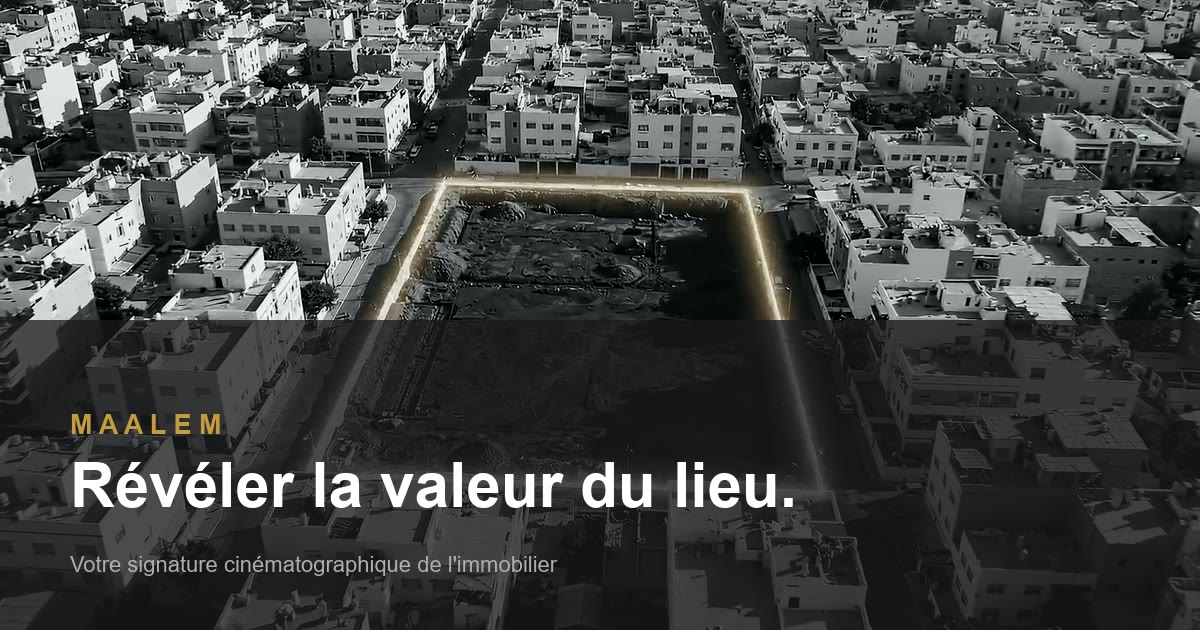
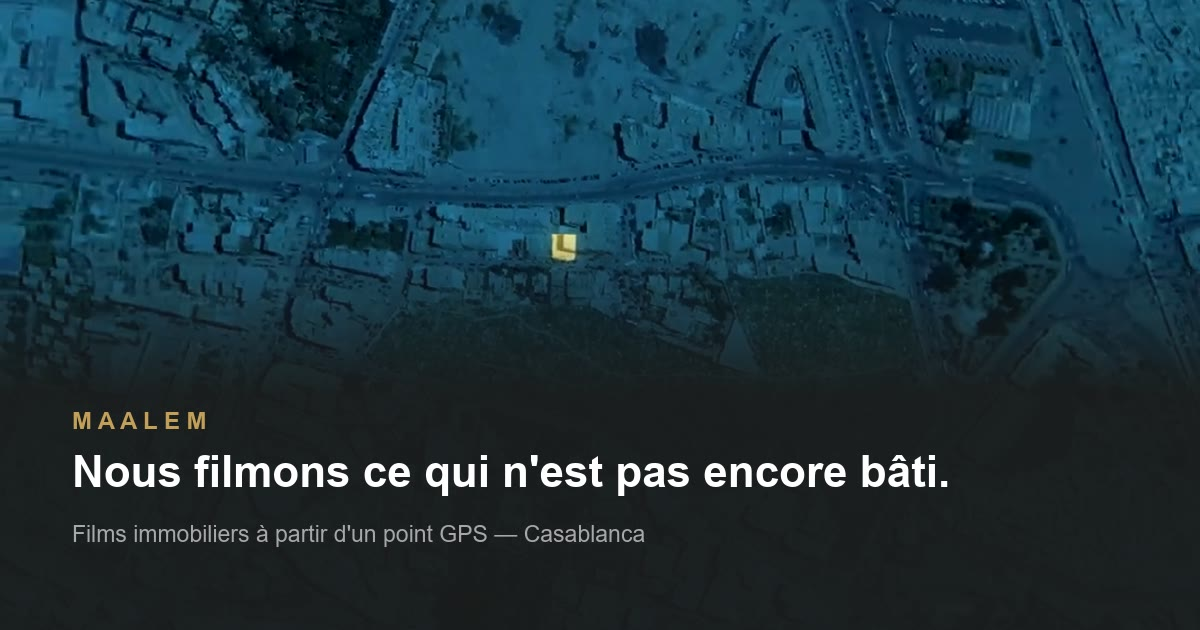
Add 404 page, robots, sitemap, llms.txt and structured data; clear the console 404s and refresh the share image

diff --git a/404.html b/404.html
@@ -1,0 +1,67 @@
+<!doctype html>
+<html lang="fr">
+<head>
+<meta charset="utf-8">
+<meta name="viewport" content="width=device-width,initial-scale=1">
+<title>Page introuvable — MAALEM</title>
+<meta name="robots" content="noindex">
+<meta name="theme-color" content="#1C1C1E">
+<link rel="icon" type="image/svg+xml" href="/medias/favicon.svg">
+<link rel="preconnect" href="https://fonts.gstatic.com" crossorigin>
+<link rel="stylesheet" href="https://fonts.googleapis.com/css2?family=Alexandria:wght@300;400&display=swap">
+<style>
+  /* Mêmes valeurs que la page d'accueil : une 404 qui ne ressemble pas au site
+     donne l'impression d'avoir quitté le domaine. */
+  :root{ --ink:#1C1C1E; --gold:#c49f58; --w-60:rgba(255,255,255,.60); }
+  *{box-sizing:border-box}
+  body{
+    margin:0;min-height:100svh;
+    display:flex;flex-direction:column;align-items:center;justify-content:center;
+    gap:26px;padding:32px;text-align:center;
+    background:var(--ink);color:#fff;
+    font-family:'Alexandria',system-ui,-apple-system,'Segoe UI',sans-serif;
+    font-weight:300;
+  }
+  .mk{width:min(210px,62vw);height:auto;fill:var(--gold);display:block}
+  h1{margin:0;font-size:clamp(1.5rem,5vw,2.2rem);font-weight:400;letter-spacing:-.01em}
+  p{margin:0;max-width:44ch;line-height:1.6;color:var(--w-60);font-size:.94rem}
+  .code{
+    font-family:ui-monospace,'IBM Plex Mono',monospace;
+    font-size:.7rem;letter-spacing:.24em;color:var(--gold);
+  }
+  .liens{display:flex;flex-wrap:wrap;gap:12px;justify-content:center;margin-top:6px}
+  a.b{
+    display:inline-flex;align-items:center;gap:9px;
+    padding:14px 24px;border-radius:1000px;text-decoration:none;
+    font-size:.72rem;font-weight:700;letter-spacing:.1em;text-transform:uppercase;
+    border:1px solid rgba(255,255,255,.32);color:#fff;
+    transition:border-color .3s,background .3s;
+  }
+  a.b:hover{border-color:var(--gold);background:rgba(196,159,88,.12)}
+  a.wa{background:#25D366;border-color:#25D366;color:#0B141A}
+  a.wa:hover{background:#1EBE5A;border-color:#1EBE5A}
+</style>
+</head>
+<body>
+  <a href="/" aria-label="MAALEM — accueil">
+    <svg class="mk" viewBox="0 0 242.13 83.03" aria-hidden="true">
+      <path d="m101.57,0v48.04c3.83,0,7.43,0,11.04,0,28.26.02,56.51.05,84.77.05.9,0,2.06,0,2.65-.52,2.03-1.79,3.85-3.81,6.18-6.18h-10.23c3.6-3.63,6.83-6.94,10.13-10.17.44-.43,1.25-.65,1.89-.66,5.02-.05,10.05-.05,15.07.01.61,0,1.51.28,1.79.72,2.02,3.24,3.91,6.55,6.09,10.25h-20.14c1.67,1.87,3.09,3.33,4.34,4.91,1.01,1.28,2.14,1.79,3.8,1.76,6.91-.09,13.81-.04,20.72-.05.73,0,1.45-.09,2.48-.16-4.6-8-8.98-15.69-13.48-23.31-.35-.58-1.56-.91-2.37-.92-6.28-.07-12.56-.02-18.84-.02-2.31,0-4.2.77-5.87,2.47-4.61,4.72-9.3,9.35-14.05,13.92-.7.67-1.86,1.2-2.82,1.21-6.51.1-13.03.07-19.54.03-.67,0-1.56-.04-1.97-.45-3.1-3.07-6.1-6.23-9.13-9.37l.21-.91c8.75-.39,17.54.05,26.32-.28v-6.64c-7.47,0-14.75-.48-22.03-.12-6.71.33-10.06,3.7-15.29,7.35,3.92,3.35,7.5,6.41,11.08,9.46-.23.24-.46.49-.69.73h-45.69c0-1.01,0-1.78,0-2.55,0-10.05,0-22.01-.02-32.06"/>
+      <path d="m79.94,7.2c.1,9.65.05,21.27.05,30.92,0,.9-.07,1.8-.11,2.64h-24.91v-16.87c-5.4,0-10.57-.13-15.72.08-1.44.06-3.07.85-4.23,1.79C23.8,34.86,12.68,44.05,1.54,53.23c-.3.25-.52.6-1.08,1.24,2.64,0,4.84-.1,7.02.03,2,.12,3.54-.48,5.1-1.78,8.45-7.01,16.99-13.91,25.52-20.83.65-.53,1.42-1.22,2.16-1.26,2.63-.15,5.28-.06,8-.06v10.67c-6.69-1.84-11.32,1.21-15.3,6.24h53.45V0"/>
+      <path d="m174.68,75.97h23.43v-2.56h-23.35v-3.89h23.37v-2.6h-26.39v15.87h26.51c-.05-.94-.09-1.69-.15-2.68h-23.41v-4.14Z"/>
+      <path d="m241.76,66.19c-1.46.82-2.64,1.16-3.36,1.94-3.42,3.66-6.71,7.44-10.2,11.34-3.52-3.94-6.82-7.72-10.23-11.38-.71-.76-1.86-1.1-3.21-1.85v16.55h2.82v-10.84c3.15,3.51,5.98,6.54,8.66,9.7,1.46,1.72,2.52,1.62,3.93-.03,2.68-3.13,5.5-6.13,8.7-9.68v10.86h2.89v-16.61Z"/>
+      <path d="m2.87,82.85v-10.8c3.05,3.41,5.76,6.45,8.49,9.47,1.84,2.03,2.24,2.01,4.04.01,2.75-3.04,5.5-6.08,8.25-9.12.17.07.35.14.52.2v10.21h2.64v-16.8c-1.5,1.01-2.59,1.49-3.33,2.29-3.39,3.63-6.68,7.35-10.13,11.18-3.49-3.97-6.69-7.73-10.04-11.34-.73-.79-1.99-1.08-3.31-1.76v16.47h2.87Z"/>
+      <path d="m114.03,82.71c-4.05-5.16-7.93-10.17-11.87-15.12-1.11-1.39-2.92-1.21-4.16.32-2.17,2.68-4.3,5.39-6.44,8.11-1.72,2.19-3.43,4.4-5.21,6.68,2.37.71,3.77,0,5.06-1.75,2.77-3.75,5.76-7.33,8.78-11.13,2.99,3.81,5.85,7.33,8.57,10.96,1.3,1.74,2.73,2.74,5.27,1.93Z"/>
+      <path d="m70.4,82.75c-.51-.71-.93-1.34-1.4-1.92-3.38-4.22-6.77-8.43-10.16-12.64-1.68-2.09-3.17-2.09-4.87.05-3.51,4.41-7.01,8.84-10.5,13.27-.3.38-.48.85-.71,1.27,2.42.74,3.81-.31,5.11-2.04,2.75-3.67,5.65-7.22,8.61-10.97,3.14,3.96,6.17,7.55,8.94,11.34,1.33,1.82,2.79,2.21,4.98,1.64Z"/>
+      <path d="m131.38,82.78h23.79c-.05-.95-.09-1.7-.15-2.72h-20.93v-13.27c-1.05.06-1.86.1-2.71.14v15.85Z"/>
+    </svg>
+  </a>
+  <p class="code">ERREUR 404</p>
+  <h1>Cette page n'existe pas.</h1>
+  <p>Le site MAALEM tient en une seule page. Le lien que vous avez suivi est
+     probablement incomplet ou périmé.</p>
+  <div class="liens">
+    <a class="b" href="/">Retour à l'accueil</a>
+    <a class="b wa" href="https://wa.me/212691865970" target="_blank" rel="noopener">WhatsApp</a>
+  </div>
+</body>
+</html>

diff --git a/index.html b/index.html
@@ -44,6 +44,58 @@
      Remplacez l'URL absolue par votre domaine avant la mise en ligne —
      WhatsApp, Facebook et LinkedIn refusent les chemins relatifs. -->
 <link rel="canonical" href="https://maalem.online/">
+
+<!-- Données structurées. Chaque valeur est déjà visible sur la page : Google
+     pénalise le balisage qui décrit autre chose que ce que voit le visiteur.
+     Volontairement absents faute d'information : adresse postale, tarifs,
+     notes et avis. -->
+<script type="application/ld+json">
+{
+  "@context": "https://schema.org",
+  "@graph": [
+    {
+      "@type": "ProfessionalService",
+      "@id": "https://maalem.online/#studio",
+      "name": "MAALEM",
+      "alternateName": "معالم",
+      "url": "https://maalem.online/",
+      "logo": "https://maalem.online/medias/logo-lockup.svg",
+      "image": "https://maalem.online/medias/og-image.jpg",
+      "description": "Studio de films 3D pour l'immobilier : d'un point GPS et de deux photos à un film qui montre accès, temps de trajet, cotes au sol et volume à l'échelle réelle. Trois formats livrés en 48 h.",
+      "email": "contact@maalem.online",
+      "telephone": "+212691865970",
+      "address": { "@type": "PostalAddress", "addressLocality": "Casablanca", "addressCountry": "MA" },
+      "areaServed": [
+        { "@type": "Country", "name": "Maroc" },
+        { "@type": "Country", "name": "Arabie saoudite" }
+      ],
+      "openingHoursSpecification": {
+        "@type": "OpeningHoursSpecification",
+        "dayOfWeek": ["Monday","Tuesday","Wednesday","Thursday","Friday","Saturday"],
+        "opens": "09:00", "closes": "20:00"
+      },
+      "sameAs": ["https://www.instagram.com/maalem.studio/"],
+      "knowsLanguage": ["ar","fr","en"]
+    },
+    {
+      "@type": "WebSite",
+      "@id": "https://maalem.online/#site",
+      "url": "https://maalem.online/",
+      "name": "MAALEM",
+      "inLanguage": ["ar","fr","en"],
+      "publisher": { "@id": "https://maalem.online/#studio" }
+    },
+    {
+      "@type": "Service",
+      "name": "Film 3D de projet immobilier",
+      "provider": { "@id": "https://maalem.online/#studio" },
+      "serviceType": "Film immobilier 3D à partir d'un point GPS",
+      "areaServed": ["MA","SA"],
+      "description": "Repérage satellite, accès et temps de trajet, cotes au sol, points d'intérêt et volume à l'échelle réelle. Livré en 16:9, 9:16 et 1:1."
+    }
+  ]
+}
+</script>
 <meta property="og:site_name" content="MAALEM">
 <meta property="og:locale" content="fr_MA">
 <meta property="og:locale:alternate" content="ar_AE">
@@ -1736,13 +1788,12 @@ var TEMOIGNAGE = {
 /* Un fond par couche, dans l'ordre des étapes. Les cinq sont LE MÊME PLAN,
    caméra fixe : seule la lumière change, de l'aube à la nuit. Un fichier
    manquant ne casse que son étape, qui reste vectorielle. */
-var TIMELAPSE = [
-  { desktop:'medias/tl-1-zoom-16x9.mp4',       mobile:'medias/tl-1-zoom-9x16.mp4' },
-  { desktop:'medias/tl-2-acces-16x9.mp4',      mobile:'medias/tl-2-acces-9x16.mp4' },
-  { desktop:'medias/tl-3-dimensions-16x9.mp4', mobile:'medias/tl-3-dimensions-9x16.mp4' },
-  { desktop:'medias/tl-4-poi-16x9.mp4',        mobile:'medias/tl-4-poi-9x16.mp4' },
-  { desktop:'medias/tl-5-extrusion-16x9.mp4',  mobile:'medias/tl-5-extrusion-9x16.mp4' }
-];
+/* Vide tant que les plans n'existent pas : cinq chemins morts, c'étaient cinq
+   404 dans la console à chaque visite, pour un fond optionnel. La démo reste
+   vectorielle, ce qui était déjà le comportement de repli.
+   Pour les rebrancher, une entrée par étape, dans l'ordre :
+     { desktop:'medias/tl-1-zoom-16x9.mp4', mobile:'medias/tl-1-zoom-9x16.mp4' } */
+var TIMELAPSE = [];
 
 /* Géométrie réelle des sites, extraite d'OpenStreetMap aux coordonnées GPS.
    Régénérer avec le script osm2svg.mjs si vous ajoutez des parcelles. */
